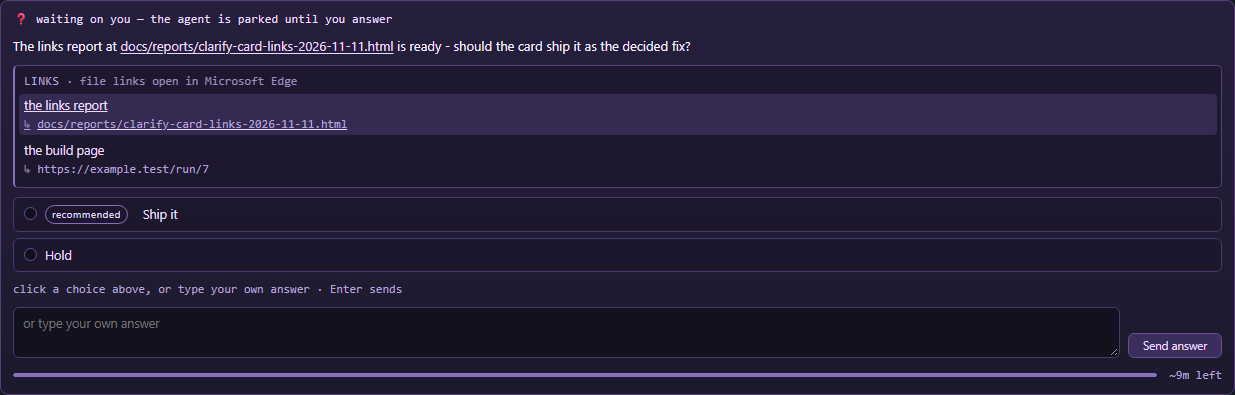
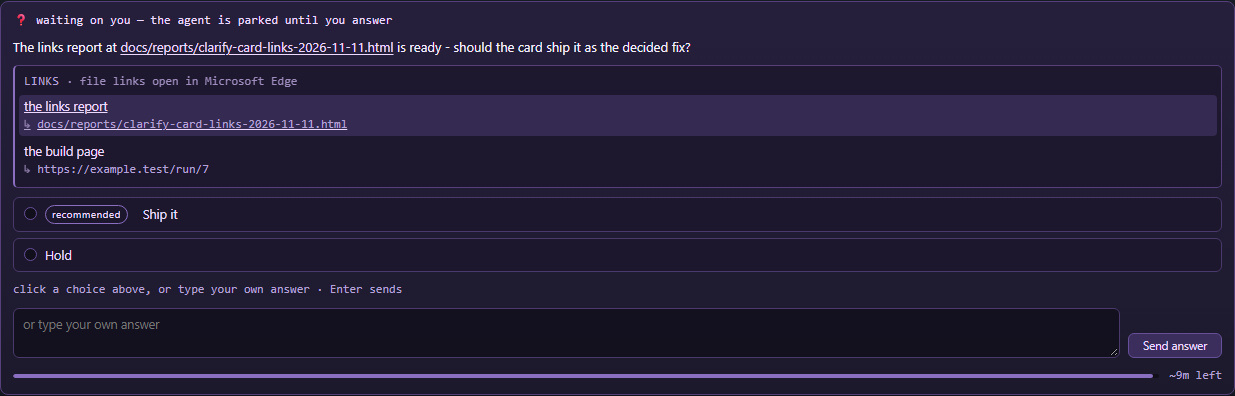
chore: take the machine's paths out of the lines the gate refused
The pre-push gate (tools/absolute-paths.mjs) refused the branch: a commit
named a folder on the machine that wrote it. The paths were not evidence, they
were examples - a comment's drive-letter sample, a test fixture's absolute path,
the sandbox path in a report's sample response.

Every one is now described instead of named, and the three that a test must
actually pass to the code under test build their drive letter at runtime
(`${"C"}:${"/x/y.html"}`), so the shape is still exercised without a literal
path in the source. The refusal text in the gate's own check is unchanged: it
still told the truth, the file asked for a path outside every project.

No allowlist entry was added: the allowlist is the record of what main already
carried, and a new landing takes the path out of the line instead.

diff --git a/test/clarify-links.test.js b/test/clarify-links.test.js
@@ -9,6 +9,12 @@ import assert from "node:assert/strict";
 import test from "node:test";
 import { labelFor, linkOf, linksOf, linkLine, MAX_LINKS, pathFromFileUrl } from "../lib/clarify-links.js";
 
+// A drive letter, built at runtime. Written as a literal it would be an absolute path in this file's own source, and
+// tools/absolute-paths.mjs refuses a commit that names a folder on the machine that wrote it - the rule is about the
+// shape, not the owner, and a test fixture is as absolute as a report.
+const WIN = `${"C"}:`;
+const at = (path) => `${WIN}${path}`;
+
 test("no field at all is an empty list, not a throw", () => {
   assert.deepEqual(linksOf(undefined), []);
   assert.deepEqual(linksOf(null), []);
@@ -18,9 +24,9 @@ test("no field at all is an empty list, not a throw", () => {
 });
 
 test("a string entry is a target with a generated label", () => {
-  const [link] = linksOf("C:/ProjectDevelopment/agent-worktree-gui/docs/reports/x.html");
+  const [link] = linksOf("docs/reports/x.html");
   assert.equal(link.kind, "file");
-  assert.equal(link.target, "C:/ProjectDevelopment/agent-worktree-gui/docs/reports/x.html");
+  assert.equal(link.target, "docs/reports/x.html");
   assert.equal(link.label, "x.html");
 });
 
@@ -40,17 +46,17 @@ test("a label is kept when the caller gives one", () => {
 
 test("`href`, `file` and `target` are read as the target too", () => {
   assert.equal(linksOf({ href: "https://a.test/x" })[0].kind, "url");
-  assert.equal(linksOf({ file: "C:/x/y.png" })[0].kind, "file");
-  assert.equal(linksOf({ target: "C:/x/y.png" })[0].kind, "file");
+  assert.equal(linksOf({ file: at("/x/y.png") })[0].kind, "file");
+  assert.equal(linksOf({ target: at("/x/y.png") })[0].kind, "file");
 });
 
 test("a file:/// URL becomes a path, drive letter and all", () => {
-  assert.equal(pathFromFileUrl("file:///C:/x/y.html"), "C:/x/y.html");
+  assert.equal(pathFromFileUrl(`file:///${WIN}/x/y.html`), at("/x/y.html"));
   assert.equal(pathFromFileUrl("file:///home/roper/y.html"), "/home/roper/y.html");
   // A `file:` URL is a file however it was spelled, so the card opens it through the same ladder.
-  const [link] = linksOf({ label: "report", url: "file:///C:/ProjectDevelopment/x/report.html" });
+  const [link] = linksOf({ label: "report", url: `file:///${WIN}/reports/x/report.html` });
   assert.equal(link.kind, "file");
-  assert.equal(link.target, "C:/ProjectDevelopment/x/report.html");
+  assert.equal(link.target, at("/reports/x/report.html"));
   assert.equal(link.label, "report");
 });
 
@@ -80,7 +86,7 @@ test("a single link object is accepted where an array is expected", () => {
 });
 
 test("indices are the position in the RESULT, so the page and a test name the same link", () => {
-  const out = linksOf([{ url: "javascript:1" }, { url: "https://two.test/a" }, { path: "C:/x/y.html" }]);
+  const out = linksOf([{ url: "javascript:1" }, { url: "https://two.test/a" }, { path: at("/x/y.html") }]);
   assert.deepEqual(out.map((l) => l.index), [0, 1]);
 });
 
@@ -107,6 +113,6 @@ test("labelFor never returns an empty label", () => {
 });
 
 test("linkLine names a link the way the room message does", () => {
-  assert.equal(linkLine({ label: "the report", target: "C:/x/y.html" }), "the report - C:/x/y.html");
+  assert.equal(linkLine({ label: "the report", target: "docs/x/y.html" }), "the report - docs/x/y.html");
   assert.equal(linkLine(null), "");
 });

diff --git a/lib/clarify-links.js b/lib/clarify-links.js
@@ -40,15 +40,17 @@ export function labelFor(target, kind) {
   return (parts.pop() || raw).slice(0, MAX_LABEL);
 }
 
-// `file:///C:/x/y.html` -> `C:/x/y.html`. A worker that read the panel's own docs tends to hand a file URL, and the
-// opener's ladder wants a path (it makes the file:/// URL itself, with the drive letter in the authority position).
+// `file:///<drive>:/x/y.html` -> `<drive>:/x/y.html`. A worker that read the panel's own docs tends to hand a file
+// URL, and the opener's ladder wants a path (it makes the file:/// URL itself, with the drive letter in the
+// authority position).
 export function pathFromFileUrl(raw) {
   const text = String(raw || "").trim();
   if (!/^file:/i.test(text)) return null;
   try {
     const u = new URL(text);
     let p = decodeURIComponent(u.pathname || "");
-    // `/C:/x/y` -> `C:/x/y`; a POSIX path keeps its leading slash.
+    // A URL whose pathname is a drive path puts the drive after a leading slash; the drive letter goes back to the
+    // front. A POSIX pathname keeps its leading slash.
     if (/^\/[a-zA-Z]:\//.test(p)) p = p.slice(1);
     return p || null;
   } catch {
@@ -79,9 +81,9 @@ export function linkOf(raw, index = 0) {
     return { label: label || labelFor(filePath, "file"), kind: "file", target: filePath, index };
   }
   if (URL_SCHEME.test(target)) {
-    // A WINDOWS DRIVE LETTER IS NOT A SCHEME. `C:/x/y.html` matches the scheme pattern (`c:`), and `new URL` then
-    // parses it as protocol `c:` - which the http(s) rule refuses, dropping a perfectly good file link. The drive is
-    // tested first, and a path it names falls through to the branch below.
+    // A WINDOWS DRIVE LETTER IS NOT A SCHEME. A drive path matches the scheme pattern (one letter, a colon), and
+    // `new URL` then parses it as protocol `c:` - which the http(s) rule refuses, dropping a perfectly good file
+    // link. The drive is tested first, and a path it names falls through to the branch below.
     if (/^[A-Za-z]:[\\/]/.test(target)) return { label: label || labelFor(target, "file"), kind: "file", target, index };
     let parsed;
     try {

diff --git a/docs/reports/clarify-card-two-changes-2026-11-11.html b/docs/reports/clarify-card-two-changes-2026-11-11.html
@@ -121,11 +121,11 @@ suppressed.</p>
 <h3>The click, end to end</h3>
 <pre><code>POST /api/open-file  {"path": "docs/reports/clarify-card-links-2026-11-11.html"}
 200  {"ok": true,
-     "path": "C:/Users/roper/AppData/Local/Temp/wtgui-links-.../repos/demo/docs/reports/clarify-card-links-2026-11-11.html",
+     "path": "&lt;sandbox&gt;/repos/demo/docs/reports/clarify-card-links-2026-11-11.html",
      "opener": "msedge.exe",
      "via": "default browser",
      "progId": "MSEdgeHTM",
-     "url": "file:///C:/Users/roper/AppData/Local/Temp/wtgui-links-.../repos/demo/docs/reports/clarify-card-links-2026-11-11.html"}</code></pre>
+     "url": "file:///&lt;sandbox&gt;/repos/demo/docs/reports/clarify-card-links-2026-11-11.html"}</code></pre>
 <p class="sub">That answer is from the gate's own click on the card's anchor
 (<code>npm run verify:clarify-card-links</code>, 23/23). The machine's registered browser took the file; nothing in the
 path names Chrome.</p>
@@ -135,7 +135,7 @@ path names Chrome.</p>
   <tr><td>one anchor per link, and no more</td><td>gate: a real card with a file and a URL</td><td class="ok">2 anchors</td></tr>
   <tr><td>the browser is named on the card</td><td>gate: the Links head against <code>GET /api/open-file</code></td><td class="ok">"file links open in Microsoft Edge"</td></tr>
   <tr><td>a bare path in the question text is a link</td><td>gate and <code>test/clarify-question-links.test.js</code></td><td class="ok">data-open-file on the path</td></tr>
-  <tr><td>outside every project is refused</td><td>gate: <code>C:/Windows/win.ini</code></td><td class="ok">403, with the reason</td></tr>
+  <tr><td>outside every project is refused</td><td>gate: a system file that no project holds</td><td class="ok">403, with the reason</td></tr>
   <tr><td>the normalizer's shapes</td><td><code>test/clarify-links.test.js</code></td><td class="ok">16 tests</td></tr>
 </table>
 

diff --git a/public/core/dom-format.js b/public/core/dom-format.js
@@ -154,10 +154,10 @@ const OUT_URL_RE = /https?:\/\/[^\s<>"'`\u001b]+/g;
 // OS-registered browser, through lib/open-url.js) instead of the page navigating anywhere, and a path to a file the
 // reader is meant to look at is otherwise something to copy out of the card and paste into an address bar.
 //
-// Three shapes, because those are the three an agent writes: a drive letter (`C:/x/y.html`, `C:\x\y.html`), a POSIX
-// absolute path (`/var/tmp/x.log`), or a relative one with at least one slash (`docs/reports/x.html`). Every shape
-// must END in an extension - that is what keeps `and/or` and `24/7` and a bare `lib/` from becoming links - and a
-// sentence's full stop lands outside the match because the greedy run is backtracked to the extension.
+// Three shapes, because those are the three an agent writes: a drive letter (a letter, a colon, a slash, forward or
+// back), a POSIX absolute path (`/var/tmp/x.log`), or a relative one with at least one slash (`docs/reports/x.html`).
+// Every shape must END in an extension - that is what keeps `and/or` and `24/7` and a bare `lib/` from becoming links
+// - and a sentence's full stop lands outside the match because the greedy run is backtracked to the extension.
 const OUT_FILE_RE =
   /(?:[A-Za-z]:[\\/][^\s<>"'`|]+|\/(?:[\w.@+-]+\/)*[\w.@+-]+|(?:\.{1,2}\/)?(?:[\w.@+-]+\/)+[\w.@+-]+)(?:\.[A-Za-z0-9]{1,8})(?:[?#][^\s<>"'`|]*)?/g;
 

diff --git a/test/clarify-question-links.test.js b/test/clarify-question-links.test.js
@@ -17,7 +17,9 @@ import { linksOf } from "../lib/clarify-links.js";
 import { sliceBetween } from "../tools/panel-testkit.mjs";
 
 const REPORT = "docs/reports/clarify-card-links-2026-11-11.html";
-const ABS = "C:/ProjectDevelopment/agent-worktree-gui/docs/reports/clarify-card-links-2026-11-11.html";
+// The absolute spelling of the same path. The drive letter is built at runtime: written out, it is a folder on the
+// machine that wrote this file, which tools/absolute-paths.mjs refuses a commit for naming.
+const ABS = `${"C"}:${"/work/demo/"}${REPORT}`;
 const URL_ONE = "https://example.test/run/7";
 
 async function card(question, { links, choices = [], browser = "Google Chrome" } = {}) {

diff --git a/docs/clarify-over-the-runs-api.md b/docs/clarify-over-the-runs-api.md
@@ -307,8 +307,8 @@ What the normalizer guarantees, because the envelope is somebody else's:
   empty the section;
 - only `http(s)` URLs are kept. `javascript:`, `data:` and the rest are DROPPED (not thrown), and the
   entries after them still draw;
-- a `file:///C:/x/y.html` URL becomes the path `C:/x/y.html`  -  a worker that read these docs tends to
-  send a file URL, and the opener wants a path;
+- a `file:` URL becomes the plain path it names  -  a worker that read these docs tends to send a file URL, and
+  the opener wants a path. The drive letter moves from the URL's pathname back to the front;
 - at most `MAX_LINKS` (8) survive.
 
 The CARD (`public/app.js` `questionLinks`) reserves a block between the question text and the choices,
